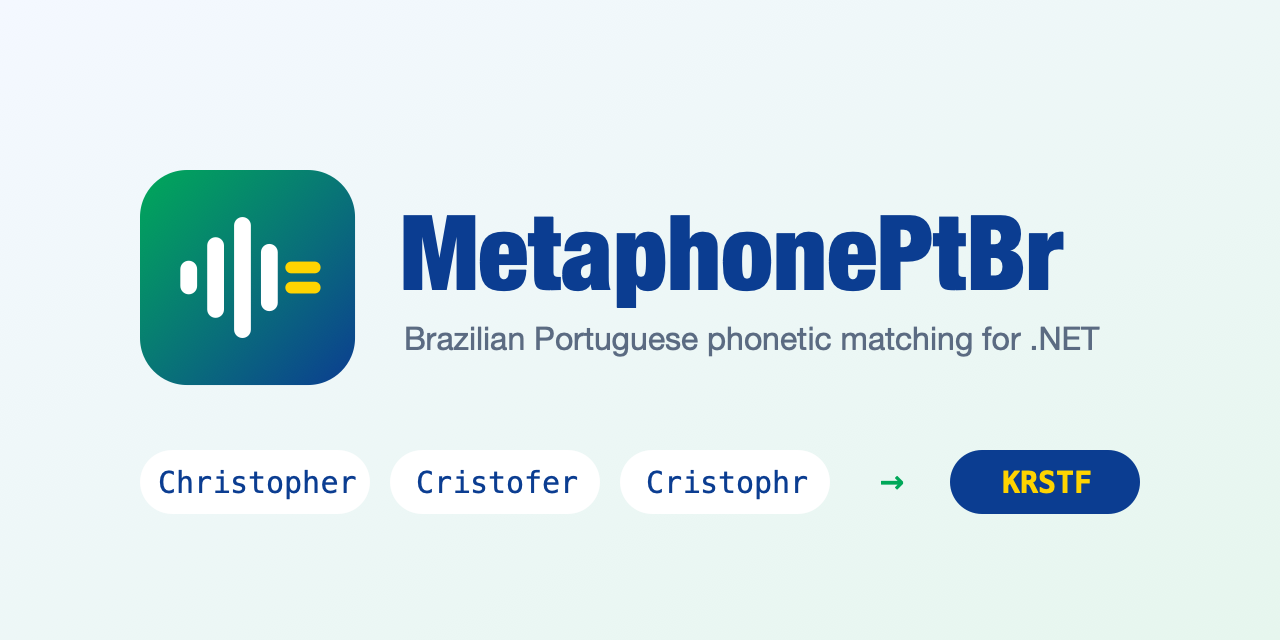
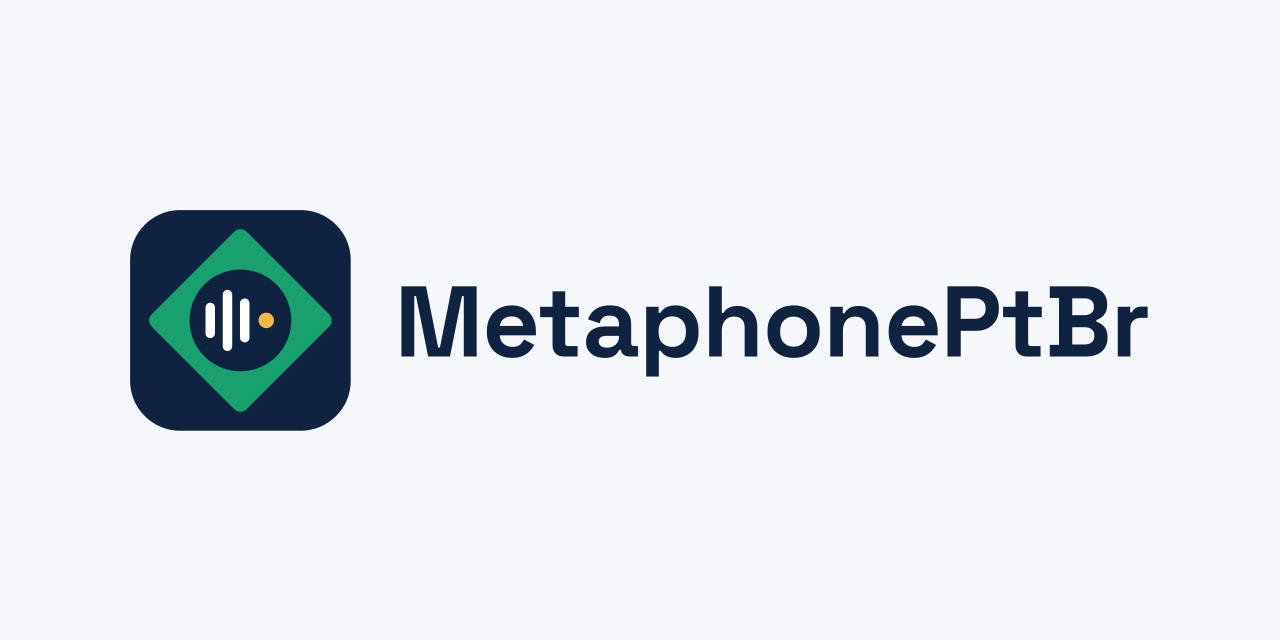
feat(docs): new brand identity and complete README for 3.0.0
- New icon and logo: diamond and circle geometry with sound bars converging to a token dot; name only, no slogan
- Wordmark in Space Grotesk Bold (SIL OFL) converted to vector paths
- Complete README: quick start, matching example, input contract, errors, rule reference, performance, 2.x migration
- CHANGELOG and feature report updated

Feature: 003-readme-and-brand

diff --git a/README.md b/README.md
@@ -1,17 +1,13 @@
-<p align="center">
-  <img src="https://raw.githubusercontent.com/crisbraatz/metaphone-pt-br/main/assets/brand/logo.png" alt="MetaphonePtBr" width="520">
-</p>
+![MetaphonePtBr](https://raw.githubusercontent.com/crisbraatz/metaphone-pt-br/main/assets/brand/logo.png)
 
-<p align="center">
-  <a href="https://www.nuget.org/packages/MetaphonePtBr"><img src="https://img.shields.io/nuget/v/MetaphonePtBr" alt="NuGet"></a>
-  <a href="https://www.nuget.org/packages/MetaphonePtBr"><img src="https://img.shields.io/nuget/dt/MetaphonePtBr" alt="Downloads"></a>
-  <a href="https://github.com/crisbraatz/metaphone-pt-br/actions/workflows/ci.yml"><img src="https://github.com/crisbraatz/metaphone-pt-br/actions/workflows/ci.yml/badge.svg" alt="CI"></a>
-  <a href="LICENSE"><img src="https://img.shields.io/github/license/crisbraatz/metaphone-pt-br" alt="License"></a>
-</p>
+[![NuGet](https://img.shields.io/nuget/v/MetaphonePtBr)](https://www.nuget.org/packages/MetaphonePtBr)
+[![Downloads](https://img.shields.io/nuget/dt/MetaphonePtBr)](https://www.nuget.org/packages/MetaphonePtBr)
+[![CI](https://github.com/crisbraatz/metaphone-pt-br/actions/workflows/ci.yml/badge.svg)](https://github.com/crisbraatz/metaphone-pt-br/actions/workflows/ci.yml)
+[![License](https://img.shields.io/github/license/crisbraatz/metaphone-pt-br)](https://github.com/crisbraatz/metaphone-pt-br/blob/main/LICENSE)
 
-Brazilian Portuguese phonetic matching for .NET. `MetaphonePtBr` converts a single word into a stable phonetic token for name, address, brand and fuzzy search: `Christopher`, `Cristofer` and `Cristophr` all become `KRSTF`.
+MetaphonePtBr is a .NET library that turns a single Brazilian Portuguese word into a stable phonetic token. Words that sound alike share the same token, so names, addresses and brands can be matched even when they are spelled differently or contain typos. For example, `Christopher`, `Cristofer` and `Cristophr` all produce `KRSTF`.
 
-> **Status:** version 3.0.0 is a full rewrite and is under active development. The latest stable release is 2.0.14.
+> **Status:** version 3.0.0 is a full rewrite and has not been released yet. The latest stable release is 2.0.14. The 2.x migration notes are in [Migrating from 2.x](#migrating-from-2x).
 
 ## Install
 
@@ -19,37 +15,311 @@ Brazilian Portuguese phonetic matching for .NET. `MetaphonePtBr` converts a sing
 dotnet add package MetaphonePtBr
 ```
 
-Targets `netstandard2.0` (including .NET Framework 4.6.1+) and `net10.0`.
+The package targets `netstandard2.0` (including .NET Framework 4.6.1 and later) and `net10.0`.
+
+## Quick start
+
+Add `using MetaphonePtBr;`, then call `Metaphone.Encode` to get the token. It throws when the input is invalid:
+
+```csharp
+using MetaphonePtBr;
+
+string token = Metaphone.Encode("Cristopher"); // "KRSTF"
+```
+
+If you prefer not to handle exceptions, call `Metaphone.TryEncode`. It returns `false` for invalid input and never throws:
+
+```csharp
+using MetaphonePtBr;
+
+if (Metaphone.TryEncode(userInput, out string? token))
+{
+    // token is the phonetic token for a valid word
+}
+```
+
+## Matching example
+
+These spelling variations produce the same token, `KRSTF`:
+
+- Christofer
+- Christofr
+- Christopher
+- Christophr
+- Cristofer
+- Cristofr
+- Cristophr
+
+Compare tokens to find candidates for a fuzzy match:
+
+```csharp
+bool sameSound = Metaphone.Encode("Christopher") == Metaphone.Encode("Cristophr"); // true
+```
+
+## Common use cases
+
+- Name search, so that a user finds a customer even when the spelling differs
+- Address search, such as street and neighbourhood names
+- Product or brand matching
+- Typo-tolerant lookup
+- Duplicate detection for records whose words sound alike
 
 ## Input contract
 
-- A single word containing letters only.
-- Supported accented letters: `ÁÀÂÃÉÊÍÓÔÕÚÜÇ` and their lowercase forms, precomposed or as combining marks.
-- Digits, spaces, symbols, hyphens, apostrophes, ligatures, ordinal indicators and non PT-BR letters are rejected.
+- The input must be a single word.
+- The input must contain letters only.
+- Supported accented Brazilian Portuguese letters are `ÁÀÂÃÉÊÍÓÔÕÚÜÇ` and their lowercase forms.
+- Accents may be given as precomposed characters or as combining marks.
+- Symbols, digits, spaces, hyphens, apostrophes, ligatures, ordinal indicators and letters that are not part of Brazilian Portuguese are rejected.
+- The result is a phonetic token, not the original word.
+
+## Errors and exceptions
+
+| Situation | `Metaphone.Encode` | `Metaphone.TryEncode` |
+|-----------|--------------------|-----------------------|
+| `null` input | Throws `ArgumentNullException` | Returns `false` |
+| Input that is not a single supported word | Throws `ArgumentException` | Returns `false` |
+| Valid word whose letters are all bypassed (for example `H`, `RR` or `LH`) | Returns an empty token | Returns `true` with an empty token |
+
+`TryEncode` never throws.
+
+## How it works
+
+Each word is processed in two steps:
+
+1. **Normalization.** The word is validated and its case is ignored. Accented letters are folded to their base letters, so the result uses only `A` to `Z` plus `Ç`.
+2. **Rule engine.** The normalized word is read from left to right. For each letter, the engine checks the rules in priority order. A rule can look at the current letter, the letters before and after it, and the letters around them. If a letter matches no special rule, it keeps its default sound.
+
+The full rule set is in the [rule reference](#rule-reference) below. The design is described in [docs/architecture.md](https://github.com/crisbraatz/metaphone-pt-br/blob/main/docs/architecture.md).
+
+## Performance
+
+3.0.0 is faster and allocates less than 2.0.14 for every input category measured. In the default BenchmarkDotNet job on an Apple M4, the mean time of `Metaphone.Encode` ranges from 0.39 times (accented words) to 0.79 times (long words) the 2.0.14 time, and allocations range from 0.31 to 0.46 times the 2.0.14 allocations. Oracle sample words, the closest proxy for real input, run in about 0.61 times the time and 0.38 times the allocations.
+
+The full tables, the machine details and the instructions to run the benchmarks are in [docs/benchmarks.md](https://github.com/crisbraatz/metaphone-pt-br/blob/main/docs/benchmarks.md).
+
+## Migrating from 2.x
+
+Version 3.0.0 replaces the `string` extension method with static methods on `Metaphone`. The phonetic tokens do not change, so existing indexes built with 2.x keep matching.
+
+Before (2.x):
+
+```csharp
+using MetaphonePtBr;
+
+string token = "Cristopher".GetMetaphoneToken();
+```
+
+After (3.0.0):
+
+```csharp
+using MetaphonePtBr;
+
+string token = Metaphone.Encode("Cristopher");
+```
+
+If your code relied on the extension method not throwing, use `Metaphone.TryEncode`:
+
+```csharp
+using MetaphonePtBr;
+
+if (Metaphone.TryEncode(input, out string? token))
+{
+    // use token
+}
+```
+
+## Target frameworks
+
+- `netstandard2.0`, for .NET Framework 4.6.1 and later
+- `net10.0`
+
+The library is marked trimmable and AOT compatible on `net10.0`.
 
 ## Development
 
-Requires the .NET SDK pinned in [`global.json`](global.json).
+Requires the .NET SDK pinned in [`global.json`](https://github.com/crisbraatz/metaphone-pt-br/blob/main/global.json).
 
 ```bash
 dotnet tool restore
-dotnet build
+dotnet build -c Release
 dotnet test
 dotnet format --verify-no-changes
-cd tests/MetaphonePtBr.Tests && dotnet stryker          # mutation testing (break threshold 90%)
+dotnet stryker --config-file tests/MetaphonePtBr.Tests/stryker-config.json --solution MetaphonePtBr.slnx   # mutation testing, break threshold 90%
 dotnet run -c Release --project benchmarks/MetaphonePtBr.Benchmarks   # benchmarks
-dotnet pack src/MetaphonePtBr -c Release -o artifacts    # NuGet package
+dotnet pack src/MetaphonePtBr -c Release -o artifacts   # NuGet package
 ```
-
-Benchmark results against 2.0.14 are in [docs/benchmarks.md](docs/benchmarks.md).
 
 ## Releasing
 
-Push a `vX.Y.Z` tag. The [release workflow](.github/workflows/release.yml) builds, tests, packs and publishes to NuGet.org using Trusted Publishing, then creates a GitHub Release. One-time setup: create a Trusted Publishing policy on nuget.org for this repository and workflow, a GitHub environment named `nuget`, and an environment secret `NUGET_USER` with your nuget.org profile name.
+Push a `vX.Y.Z` tag. The [release workflow](https://github.com/crisbraatz/metaphone-pt-br/blob/main/.github/workflows/release.yml) builds, tests, packs and publishes to NuGet.org with Trusted Publishing, then creates a GitHub Release. The one-time setup is a Trusted Publishing policy on nuget.org for this repository and workflow, a GitHub environment named `nuget`, and an environment secret `NUGET_USER` with your nuget.org profile name.
 
 ## Contributing
 
-See [CONTRIBUTING.md](CONTRIBUTING.md), the [Code of Conduct](CODE_OF_CONDUCT.md) and the [Security Policy](SECURITY.md). Changes are listed in the [CHANGELOG](CHANGELOG.md).
+See [CONTRIBUTING.md](https://github.com/crisbraatz/metaphone-pt-br/blob/main/CONTRIBUTING.md), the [Code of Conduct](https://github.com/crisbraatz/metaphone-pt-br/blob/main/CODE_OF_CONDUCT.md) and the [Security Policy](https://github.com/crisbraatz/metaphone-pt-br/blob/main/SECURITY.md). Changes are listed in the [CHANGELOG](https://github.com/crisbraatz/metaphone-pt-br/blob/main/CHANGELOG.md).
+
+## Rule reference
+
+Each table lists a pattern and the token it produces. The symbols used in the patterns are explained first. The rules match the 2.0.14 behavior.
+
+### Symbols
+
+| Symbol | Meaning                             |
+|:------:|:------------------------------------|
+| Letter | Letter                              |
+|  `^`   | Beginning of word                   |
+|  `$`   | End of word                         |
+|  `[]`  | One occurrence of any listed letter |
+|  `v`   | Any vowel                           |
+|  `c`   | Any consonant                       |
+|  `.`   | Any letter                          |
+|  `0`   | Bypass                              |
+
+### C
+
+| Rule  | Result |
+|:-----:|:-------|
+|  CHR  | K      |
+|  CH   | X      |
+| C[EI] | S      |
+| C[QK] | 0      |
+|   C   | K      |
+|  C$   | K      |
+|   Ç   | S      |
+
+### G
+
+| Rule  | Result |
+|:-----:|:-------|
+| GH[v] | J      |
+| GH[c] | GJ     |
+| G[EI] | J      |
+|   G   | G      |
+
+### H
+
+| Rule  | Result |
+|:-----:|:-------|
+| ^H[v] | v      |
+|   H   | 0      |
+
+### Immutables
+
+| Rule | Result |
+|:----:|:-------|
+|  B   | B      |
+|  D   | D      |
+|  F   | F      |
+|  J   | J      |
+|  K   | K      |
+|  M   | M      |
+|  V   | V      |
+
+### L
+
+| Rule | Result |
+|:----:|:-------|
+|  LH  | 0      |
+|  ^L  | L      |
+| L[v] | L      |
+|  L   | 0      |
+
+### N
+
+| Rule | Result |
+|:----:|:-------|
+|  N$  | M      |
+|  NH  | 0      |
+|  NN  | 0      |
+|  N   | N      |
+
+### P
+
+| Rule | Result |
+|:----:|:-------|
+|  PH  | F      |
+|  P   | P      |
+
+### Q
+
+| Rule | Result |
+|:----:|:-------|
+|  Q   | K      |
+
+### R
+
+| Rule | Result |
+|:----:|:-------|
+|  ^R  | 0      |
+|  R$  | 0      |
+|  RR  | 0      |
+| vRv  | R      |
+| .Rc  | R      |
+| cRv  | R      |
+
+### S
+
+|  Rule   | Result |
+|:-------:|:-------|
+|   SS    | S      |
+|   SH    | X      |
+|   vSv   | Z      |
+| SC[EI]  | S      |
+| SC[AOU] | SK     |
+|   SCH   | X      |
+|  SC[.]  | S      |
+|    S    | S      |
+
+### T
+
+| Rule | Result |
+|:----:|:-------|
+|  TH  | T      |
+|  T   | T      |
+
+### Vowels
+
+| Rule | Result |
+|:----:|:-------|
+| ^[v] | v      |
+
+### W
+
+| Rule  | Result |
+|:-----:|:-------|
+| W[v]  | V      |
+| W[LR] | V      |
+| W[c]  | 0      |
+|  W$   | 0      |
+
+### X
+
+|        Rule         | Result |
+|:-------------------:|:-------|
+|         X$          | X      |
+|       ^EX[v]        | Z      |
+|       .EX[EI]       | X      |
+|      .EX[AOU]       | KS     |
+|        EX[C]        | S      |
+|       EX[PT]        | S      |
+|        EX[.]        | KS     |
+|  [vCKGLRX][AIOU]X   | X      |
+| [DFMNPQSTVZ][AIOU]X | KS     |
+|          X          | X      |
+
+### Y
+
+| Rule | Result |
+|:----:|:-------|
+|  Y   | I      |
+
+### Z
+
+| Rule | Result |
+|:----:|:-------|
+|  Z$  | S      |
+|  Z   | Z      |
+
 
 ## Credits
 
@@ -57,4 +327,4 @@ Based on [metaphone-ptbr](https://github.com/carlosjordao/metaphone-ptbr) by [Ca
 
 ## License
 
-[MIT](LICENSE)
+[MIT](https://github.com/crisbraatz/metaphone-pt-br/blob/main/LICENSE)

diff --git a/docs/features/003-readme-and-brand.md b/docs/features/003-readme-and-brand.md
@@ -1,0 +1,27 @@
+# Funcionalidade 003 — README completo e nova identidade visual
+
+- Data: 2026-11-24 · Commit: (este commit) · Agentes: claude
+
+## O que faz
+Dá ao projeto uma identidade visual nova e um README completo para a 3.0.0, que aparece tanto no GitHub quanto na página do pacote no NuGet.
+
+## O que mudou
+- **Nova identidade (conceito A, escolhido por você):** ícone com um losango e um círculo (geometria da bandeira, sem a paleta óbvia) e barras de som que terminam num ponto dourado — o token. Logo só com ícone e nome, sem slogan, nome em Space Grotesk Bold (fonte livre, licença SIL OFL) convertido em vetores. Paleta: azul-marinho, esmeralda e dourado. Arquivos em `assets/brand/`.
+- **README completo:** instalação, início rápido com `Encode`/`TryEncode`, exemplo de correspondência, casos de uso, contrato de entrada, erros, como funciona, tabela de regras completa, desempenho, migração da 2.x, frameworks suportados, desenvolvimento, publicação, contribuição, créditos e licença.
+- CHANGELOG atualizado.
+
+## Decisões
+- O guia de migração ficou como seção do README (mais fácil de achar) em vez de arquivo separado.
+- Imagens e links do README usam endereços absolutos para funcionarem também na página do NuGet.
+
+## Testes
+Build, formatação e 2.154 testes passando. O README e o ícone dentro do pacote NuGet foram comparados byte a byte com os do repositório. As tabelas de regras são idênticas às da versão anterior.
+
+## Notas de segurança
+Só documentação e imagens mudaram; nenhum risco novo. A auditoria não encontrou problemas.
+
+## Próximos passos
+- As imagens do README só aparecem depois do push (elas apontam para a `main` no GitHub).
+- Correções de regras fonéticas, se desejado.
+
+1 aprendizado geral foi registrado para projetos futuros.

diff --git a/CHANGELOG.md b/CHANGELOG.md
@@ -10,7 +10,8 @@ and this project adheres to [Semantic Versioning](https://semver.org/spec/v2.0.0
 ### Added
 - Full rewrite for 3.0.0: new project structure targeting `netstandard2.0` and `net10.0`.
 - Input normalization that enforces the Brazilian Portuguese input contract.
-- New brand: icon and logo.
+- New brand identity: an icon and a logo with the name only (no slogan), built on a navy, emerald and gold palette, combining a phonetic symbol with Brazilian geometry.
+- Complete English README: quick start with `Metaphone.Encode` and `Metaphone.TryEncode`, matching example, common use cases, input contract, errors, how it works, full rule reference, performance summary, migration guide from 2.x, target frameworks, development, releasing, contributing, credits and license.
 - Mutation testing (Stryker.NET), benchmarks (BenchmarkDotNet), SourceLink, deterministic builds and package validation.
 - `Metaphone.Encode(string)` returns the phonetic token of a single Brazilian Portuguese word and throws on invalid input.
 - `Metaphone.TryEncode(string?, out string?)` does the same without throwing.
